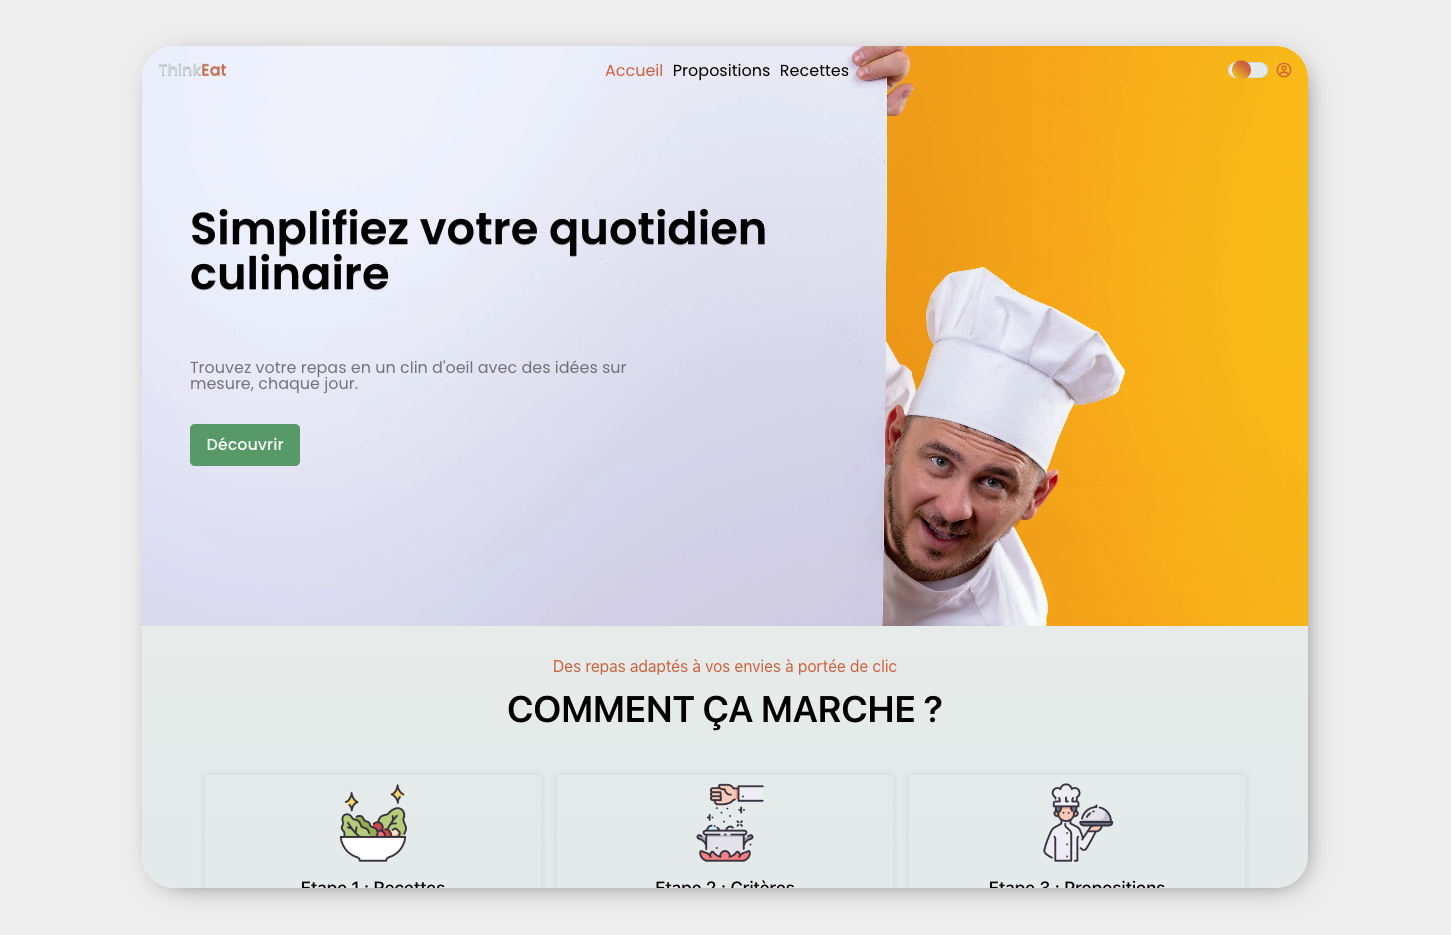
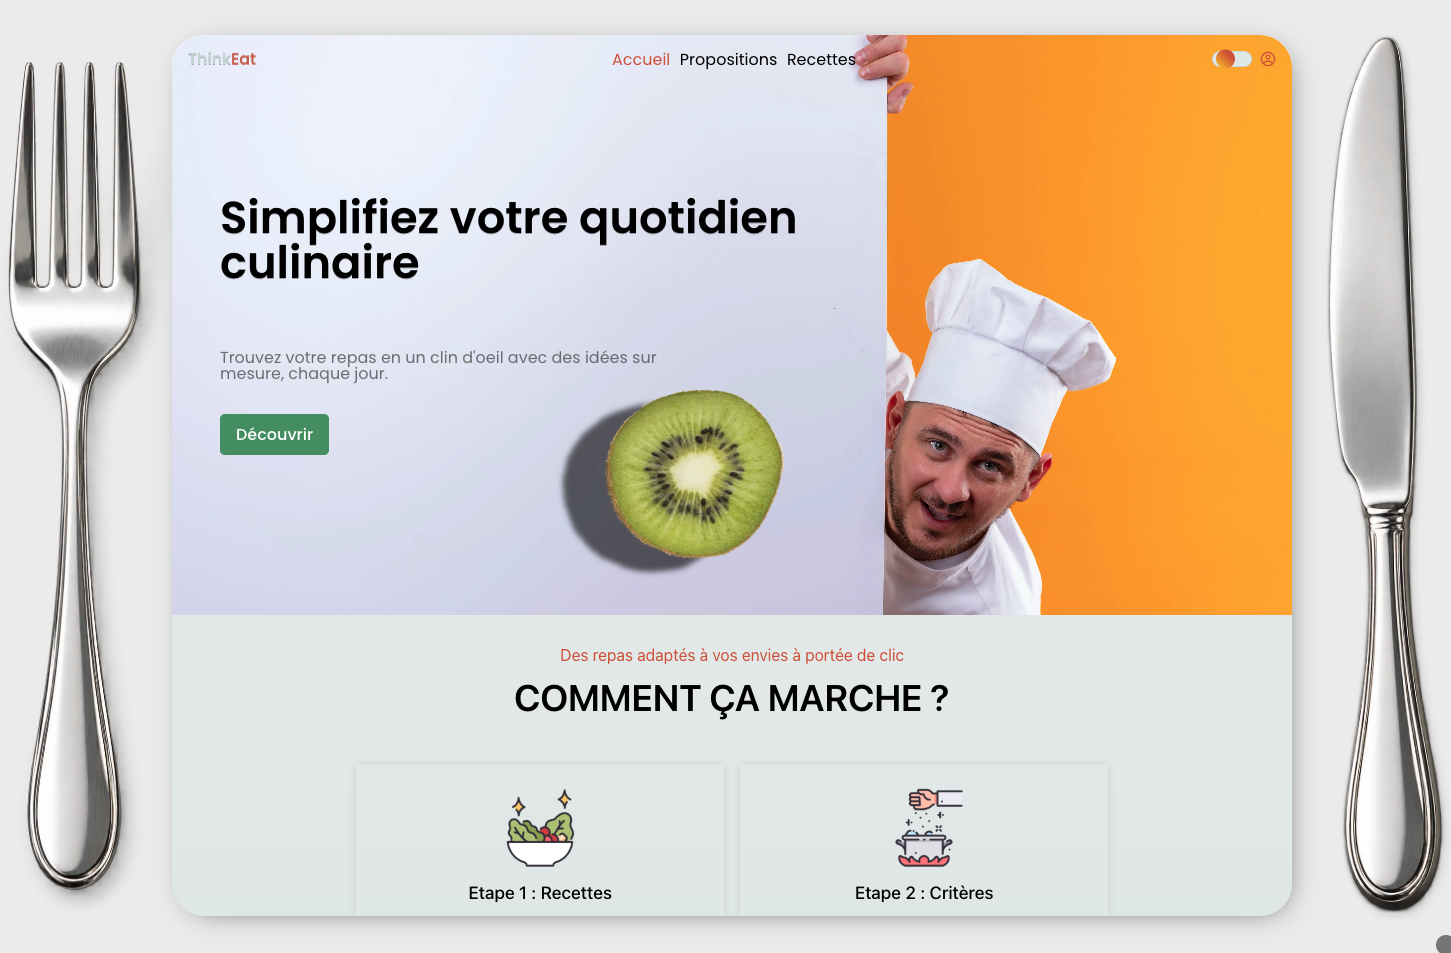
feat(backend): add cookie helper and trust proxy configuration

diff --git a/back/src/helpers/mailer.js b/back/src/helpers/mailer.js
@@ -6,13 +6,13 @@ const MAIL_PORT = parseInt(process.env.MAIL_PORT, 10) || 465;
 const transporter = nodemailer.createTransport({
   host: process.env.MAIL_HOST || "smtp.gmail.com",
   port: MAIL_PORT,
-  secure: MAIL_PORT === 465, // 465 = TLS implicite, 587 = STARTTLS
+  secure: MAIL_PORT === 465, // 465 = implicit TLS, 587 = STARTTLS
   requireTLS: MAIL_PORT !== 465,
   auth: {
     user: process.env.MAIL_USER,
-    pass: process.env.MAIL_PASSWORD?.replace(/\s/g, ""), // les mots de passe d'application Google sont affichés avec des espaces
+    pass: process.env.MAIL_PASSWORD?.replace(/\s/g, ""), // Google app passwords are displayed with spaces
   },
-  // Sans ces timeouts, une sortie SMTP bloquée laisse la requête HTTP en attente 2 minutes
+  // Without these timeouts, a blocked SMTP egress leaves the HTTP request pending for 2 minutes
   connectionTimeout: 10000,
   greetingTimeout: 10000,
   socketTimeout: 20000,

diff --git a/back/src/validators/user.validator.js b/back/src/validators/user.validator.js
@@ -101,7 +101,7 @@ export default class UserValidator extends CoreValidator {
     }
   }
 
-  static checkTokenPayload({id, name, email, ip, userAgent}, req) {
+  static checkTokenPayload({id, name, email, userAgent}, req) {
     if (!id || !String(id).match(/^[1-9]\d*$/)) {
       throw new ApiError('Security Alert', {httpStatus: 401});
     }
@@ -111,7 +111,8 @@ export default class UserValidator extends CoreValidator {
     if (!email || !emailValidator.validate(email)) {
       throw new ApiError('Security Alert', {httpStatus: 401});
     }
-    if (ip !== req.ip || userAgent !== req.headers['user-agent']) {
+    // The IP is not compared: it legitimately changes (wifi/4G, VPN, NAT) and would log users out
+    if (userAgent !== req.headers['user-agent']) {
       throw new ApiError('Security Alert', {httpStatus: 401});
     }
     return {id, name, email};

diff --git a/back/public/index.html b/back/public/index.html
@@ -13,7 +13,7 @@
     <link rel="preload" href="https://fonts.googleapis.com/css2?family=Poppins:ital,wght@0,100;0,200;0,300;0,400;0,500;0,600;0,700;0,800;0,900;1,100;1,200;1,300;1,400;1,500;1,600;1,700;1,800;1,900&display=swap" as="style" onload="this.onload=null;this.rel='stylesheet'" type="text/css">
     <link rel="preload" href="https://fonts.googleapis.com/css2?family=Rye&display=swap" as="style" onload="this.onload=null;this.rel='stylesheet'">
     <title>ThinkEat</title>
-    <script type="module" crossorigin src="/assets/index-DWkMNYU1.js"></script>
+    <script type="module" crossorigin src="/assets/index-grF7N_dE.js"></script>
     <link rel="stylesheet" crossorigin href="/assets/index-DASpYtiN.css">
   </head>
 

diff --git a/back/src/middlewares/authenticateToken.js b/back/src/middlewares/authenticateToken.js
@@ -1,12 +1,12 @@
 import jwt from 'jsonwebtoken';
 import ApiError from '../helpers/apiError.js';
 import UserValidator from '../validators/user.validator.js';
+import { getCookie } from '../helpers/cookies.js';
 
 export default function (req, _, next) {
   const authHeader = req.headers['authorization'];
   const token = authHeader && authHeader.split(' ')[1];
-  const authHeader2 = req.headers['cookie'];
-  const cookie = authHeader2 && authHeader2.split('=')[1];
+  const cookie = getCookie(req, 'access_token');
 
   if (!token || !cookie ) throw new ApiError('Unauthorized', {httpStatus: 401});
 

diff --git a/back/src/middlewares/checkIfToken.js b/back/src/middlewares/checkIfToken.js
@@ -1,10 +1,10 @@
 import authenticateToken from "./authenticateToken.js";
+import { getCookie } from "../helpers/cookies.js";
 
 export default function (req, res ,next) {
   const authHeader = req.headers['authorization'];
   const token = authHeader && authHeader.split(' ')[1];
-  const authHeader2 = req.headers['cookie'];
-  const cookie = authHeader2 && authHeader2.split('=')[1];
+  const cookie = getCookie(req, 'access_token');
 
   if (token && cookie ) {
     authenticateToken(req,res,next);    

diff --git a/back/src/helpers/cookies.js b/back/src/helpers/cookies.js
@@ -1,0 +1,14 @@
+// Reads one cookie from the Cookie header.
+// Splitting the whole header on "=" breaks as soon as a second cookie is present.
+export function getCookie(req, name) {
+  const header = req.headers['cookie'];
+  if (!header) return undefined;
+
+  const prefix = `${name}=`;
+  const cookie = header
+    .split(';')
+    .map((part) => part.trim())
+    .find((part) => part.startsWith(prefix));
+
+  return cookie && cookie.slice(prefix.length);
+}

diff --git a/front/src/components/Layout/Partials/Header/index.jsx b/front/src/components/Layout/Partials/Header/index.jsx
@@ -64,7 +64,11 @@ const Header = () => {
 
     const handleClickDeconnexion = async () => {
         localStorage.removeItem("user");
-        await UserApi.signout();
+        try {
+            await UserApi.signout();
+        } catch {
+            // The client session is closed even when the server call fails
+        }
         dispatch({type:types.SIGNOUT})
         navigate("/");
     };

diff --git a/back/src/index.js b/back/src/index.js
@@ -9,6 +9,9 @@ import { bodySanitizer, errorMiddleware, notFoundMiddleware, queryParser, redire
 // Create Express App
 const app = express();
 
+// Behind the host proxy, without this req.ip is the proxy IP and not the client one
+app.set('trust proxy', 1);
+
 // Parse query in object
 app.set('query parser', queryParser);
 
